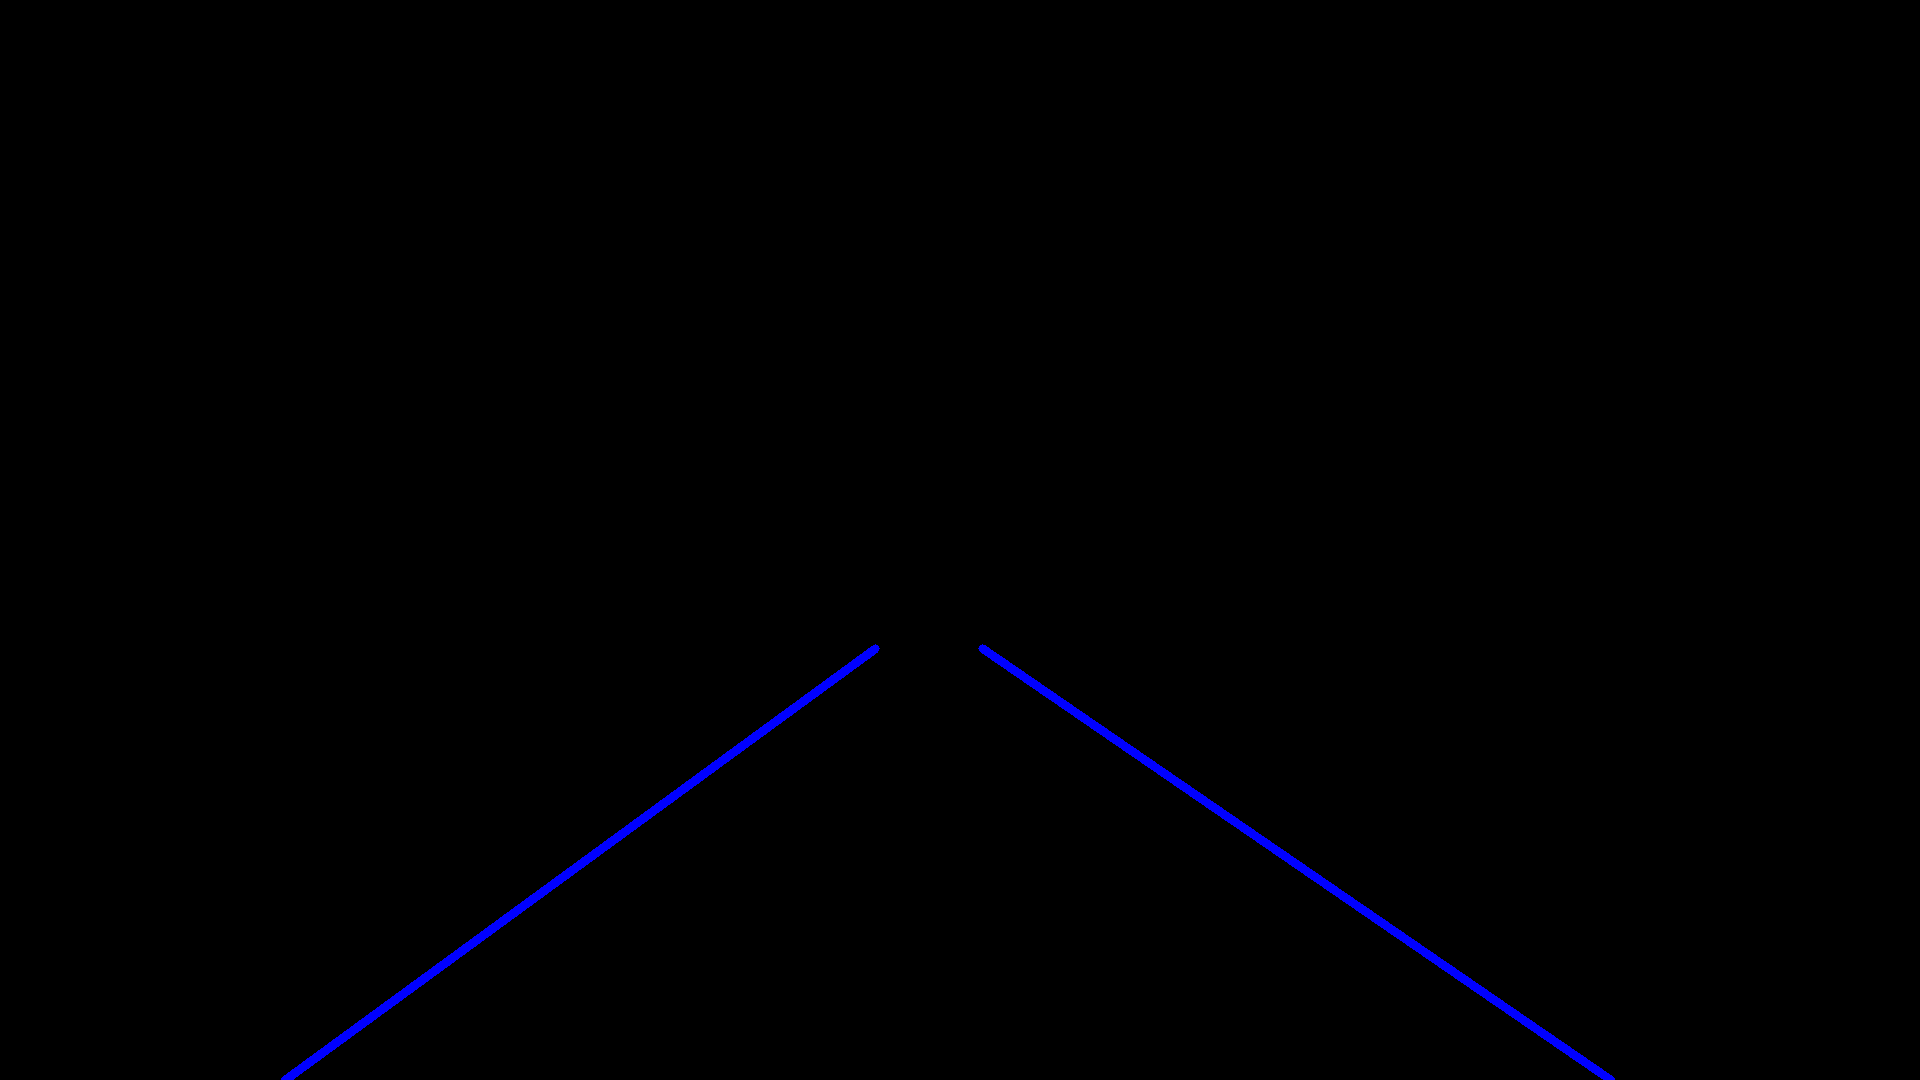
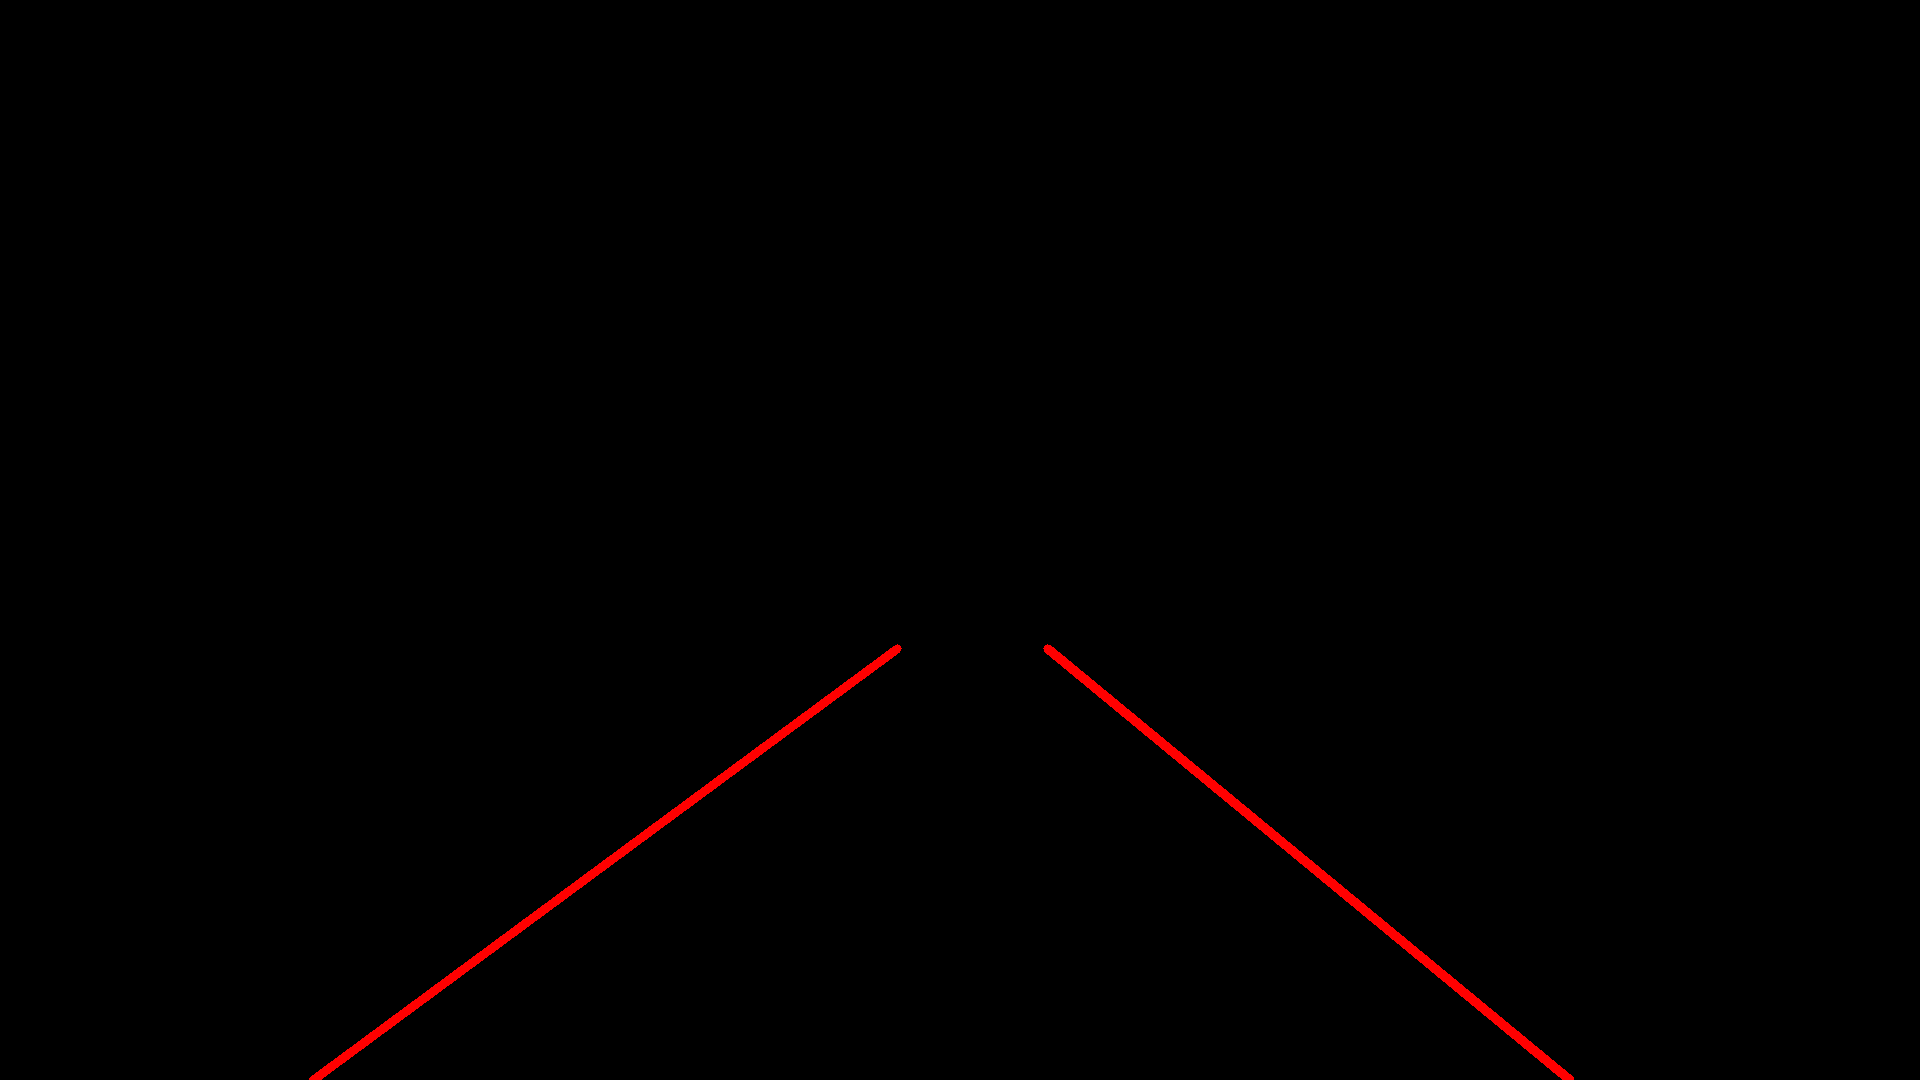
versione refactored

diff --git a/finding_lines.py b/finding_lines.py
@@ -65,6 +65,7 @@ def hough_lines(image):
     #30 20 20
 
     #best 40, 20, 300
+    #fin test 40, 20, 50
     return cv2.HoughLinesP(image, rho=1, theta=np.pi / 90, threshold=40, minLineLength=20, maxLineGap=50)
 
 
@@ -76,7 +77,7 @@ def average_slope_intercept(lines):
 
     for line in lines:
         for x1, y1, x2, y2 in line:
-            if x2 == x1:
+            if x2 == x1 or np.abs(y2 -y1) < 100:
                 continue  # ignore a vertical line
             slope = (y2 - y1) / (x2 - x1)
             intercept = y1 - slope * x1
@@ -132,7 +133,7 @@ def lane_lines(image, lines):
     return left_line, right_line
 
 
-def draw_lane_lines(image, lines, color=[255, 0, 0], thickness=8):
+def draw_lane_lines(image, lines, color=[0, 0, 255], thickness=8):
     # make a separate image to draw lines and combine with the orignal later
     line_image = np.zeros_like(image)
     for line in lines:
@@ -270,6 +271,22 @@ def main():
     # cv2.imwrite('finale.png', img_on)
 
 
+
+    #visualizzazione finale
+
+    img_test = cv2.imread("test.png")
+    img_vis_fin = np.zeros_like(img_test)
+
+    a = 0.5
+    for r in range(h):
+        for c in range(w):
+            if not np.array_equal(img_test[r,c], [0, 0, 0]):
+                img_vis_fin[r, c] = (1 - a) * img_test[r, c] + a * img_fin[r, c]
+            else:
+                img_vis_fin[r, c] = img_fin[r, c]
+
+
+    cv2.imwrite("visualizzazione.png", img_vis_fin)
 
 
 

diff --git a/shadow.py b/shadow.py
@@ -1,30 +1,29 @@
 import cv2
 import numpy as np
 
+def convert_hls(image):
+    return cv2.cvtColor(image, cv2.COLOR_RGB2HLS)
+
+def select_white_yellow(image):
+    converted = convert_hls(image)
+    # white color mask
+    lower = np.uint8([  0, 200,   0])
+    upper = np.uint8([255, 255, 255])
+    white_mask = cv2.inRange(converted, lower, upper)
+    # yellow color mask
+    lower = np.uint8([ 10,   0, 100])
+    upper = np.uint8([ 40, 255, 255])
+    yellow_mask = cv2.inRange(converted, lower, upper)
+    # combine the mask
+    mask = cv2.bitwise_or(white_mask, yellow_mask)
+    return cv2.bitwise_and(image, image, mask = mask)
+
+
 frame = cv2.imread("start.jpg")
 
 
-while(1):
 
 
-    hsv = cv2.cvtColor(frame, cv2.COLOR_BGR2HSV)
+masked = select_white_yellow(frame)
 
-    # define range of white color in HSV
-    # change it according to your need !
-    lower_white = np.array([0,0,0], dtype=np.uint8)
-    upper_white = np.array([0,0,255], dtype=np.uint8)
-
-    # Threshold the HSV image to get only white colors
-    mask = cv2.inRange(hsv, lower_white, upper_white)
-    # Bitwise-AND mask and original image
-    res = cv2.bitwise_and(frame,frame, mask= mask)
-
-    cv2.imshow('frame',frame)
-    cv2.imshow('mask',mask)
-    cv2.imshow('res',res)
-
-    k = cv2.waitKey(5) & 0xFF
-    if k == 27:
-        break
-
-cv2.destroyAllWindows()
+cv2.imwrite("hls.png", masked)
